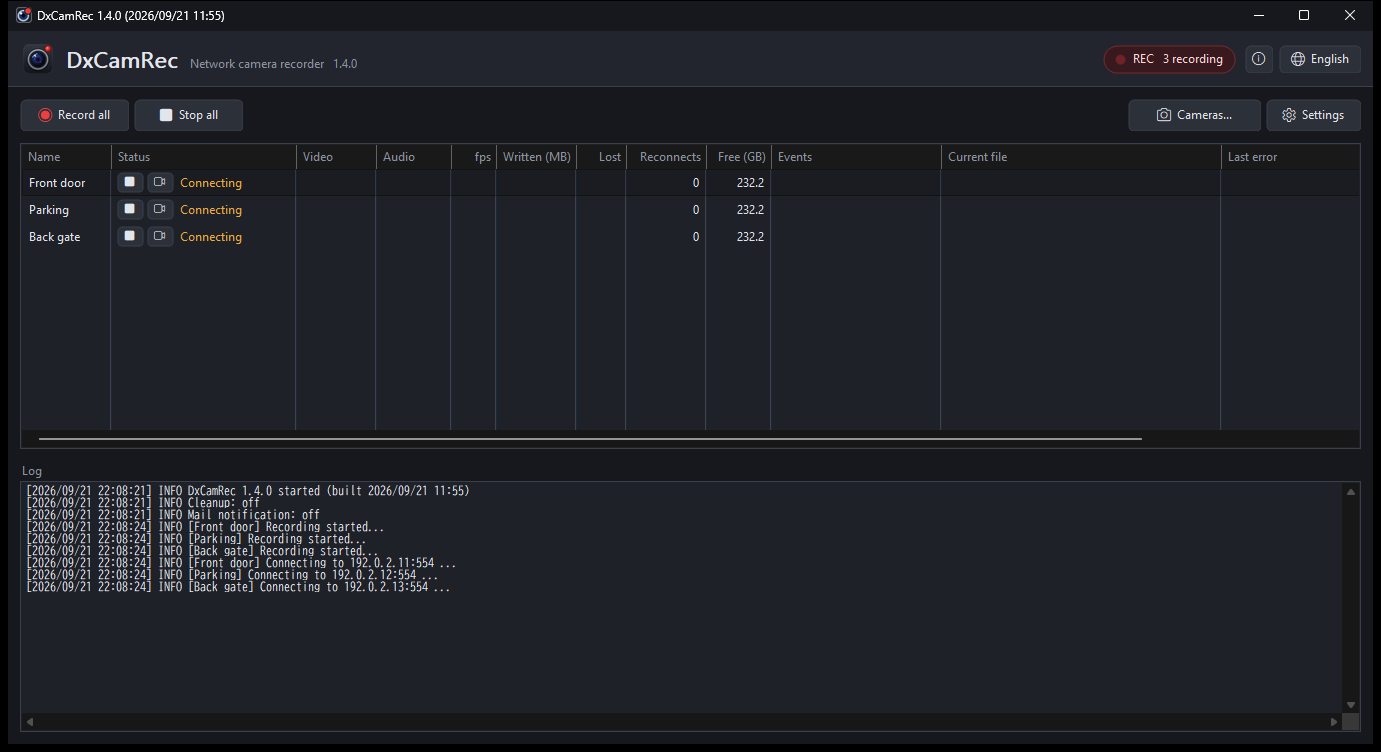
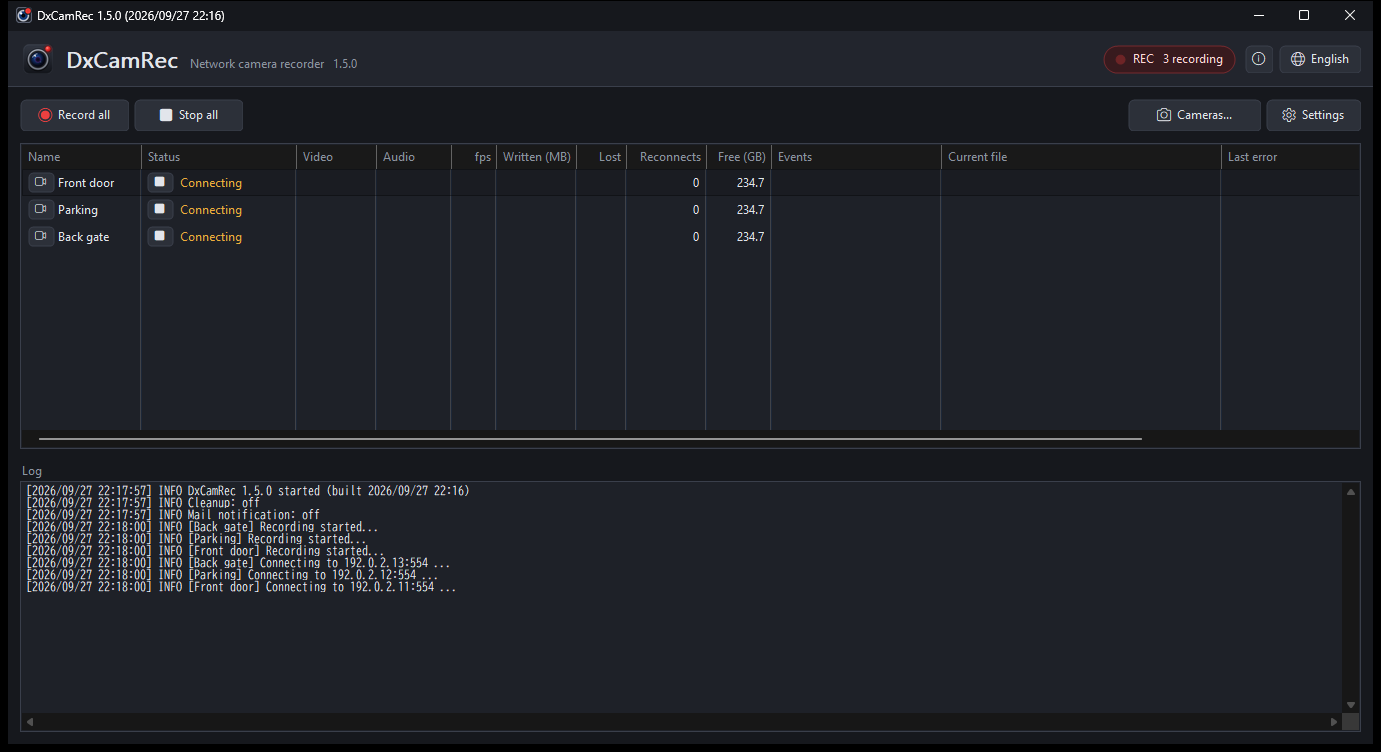
Update README and screenshots for 1.5.0
The video button moved to the left of the camera name.

diff --git a/README.ja.md b/README.ja.md
@@ -42,7 +42,7 @@
 ## 使い方
 
 1. 「**カメラの管理...**」の「**追加...**」でカメラを登録します。「**検索...**」でネットワーク上のカメラを探せます。
-2. 一覧の「**状態**」の欄の最初のボタンで録画の開始と停止、その右のボタンで映像を表示します。
+2. 一覧の「**状態**」の欄のボタンで録画の開始と停止、カメラ名の左のボタンで映像を表示します。
    行を右クリックすると他の操作も選べます。「**すべて開始**」「**すべて停止**」で全台をまとめて操作できます。
 3. 「**設定**」に、録画の自動削除・メール通知・「起動時に録画を開始」があります。
 4. 右上の **×** は画面を隠すだけで、録画は続きます。タスクトレイのアイコンをクリックすると戻り、

diff --git a/README.md b/README.md
@@ -43,7 +43,7 @@ Get the latest release from **[Releases](https://github.com/HDBENCH/DxCamRec/rel
 ## Getting started
 
 1. Open **Cameras...** and add a camera with **Add...**. **Search...** looks for cameras on the network.
-2. The first button in the **Status** column starts and stops recording; the next one opens the video.
+2. The button in the **Status** column starts and stops recording; the one left of the camera name opens the video.
    Right-click a row for more, and use **Record all** / **Stop all** for every camera at once.
 3. **Settings** holds automatic cleanup, mail notification and "Start recording on startup".
 4. The close button (x) hides the window and keeps recording. Click the tray icon to bring it back,
